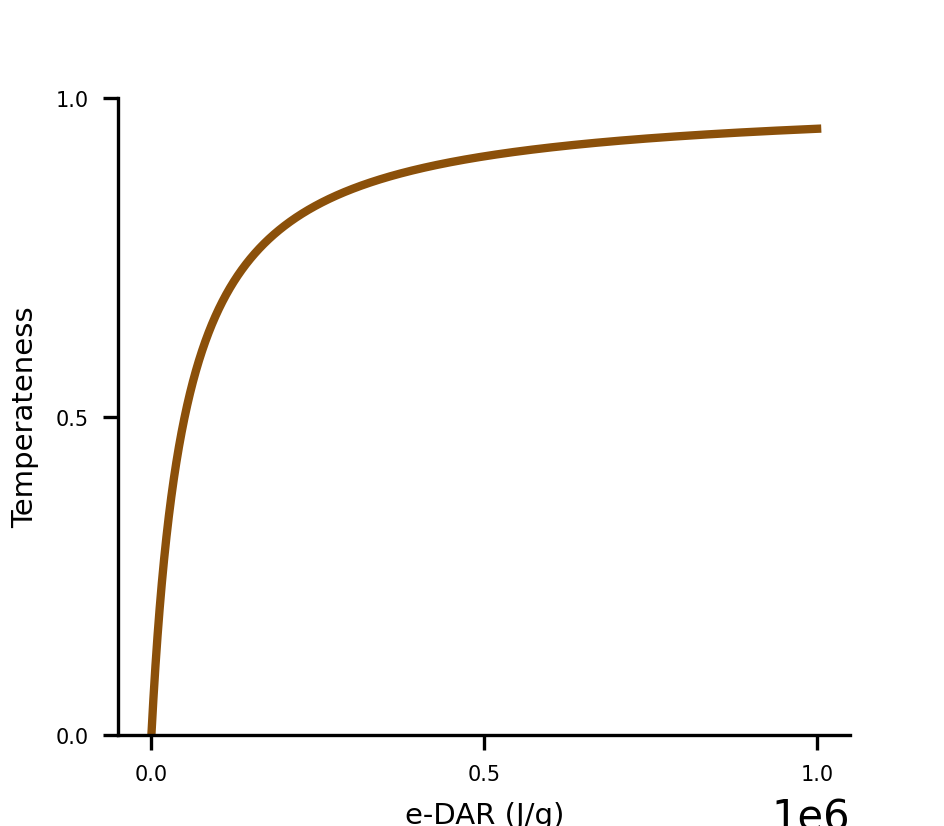
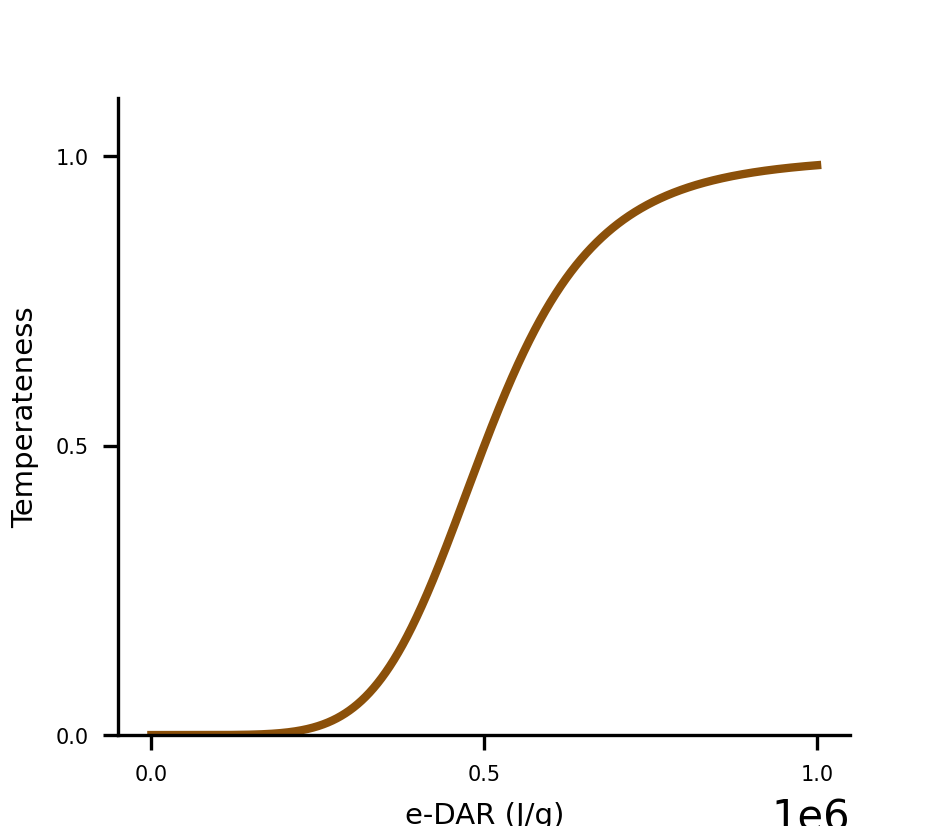
changes to figure script

diff --git a/Bin/eDAR_Figure.py b/Bin/eDAR_Figure.py
@@ -29,8 +29,8 @@ edar=np.arange(Min_edar,Max_edar,Resolution)
 
 print(edar)
 #Hill function of temperateness as a function of eDAR
-K_edar=0.05*Max_edar;exponent=1
-Temperateness=edar**exponent/(edar**exponent+K_edar)
+K_edar=0.5*Max_edar;exponent=6
+Temperateness_Hill=(edar**exponent)/(edar**exponent+K_edar**exponent)
 #+++++++++++++++++++++++++++++++++++++++++++++++++++++++++++++
 
 #PLOTS
@@ -49,16 +49,16 @@ figure(figsize=(Width, Height), dpi=300)
 
 #Colors
 cmap='BrBG';cmap_pieces= matplotlib.cm.get_cmap(cmap)
-color_plot=cmap_pieces(0.1)
+color_hill=cmap_pieces(0.1)
 
 #Plot Figure
-plt.plot(edar,Temperateness,color=color_plot,linewidth=2)
+plt.plot(edar,Temperateness_Hill,color=color_hill,linewidth=2)
 
-print(Temperateness)
+print(Temperateness_Hill)
 #Axes, title, and ticks
 plt.ylabel('Temperateness', fontsize=size_axis)
 plt.xlabel('e-DAR (J/g)', fontsize=size_axis)
-plt.ylim([0,1])
+plt.ylim([0,1.1])
 yticks_labels=[0, 0.5, 1]
 plt.yticks(yticks_labels, fontsize=size_ticks)
 
@@ -70,4 +70,7 @@ sns.despine(top=True, right=True, left=False, bottom=False)
 
 Name_Fig='Figure_2'
 [plt.savefig(Output_Path+Name_Fig+ext,dpi=300) for ext in Extensions]
+plt.show()
+
+plt.plot(edar,Temperateness_sig,color=color_sig,linewidth=2)
 plt.show()
